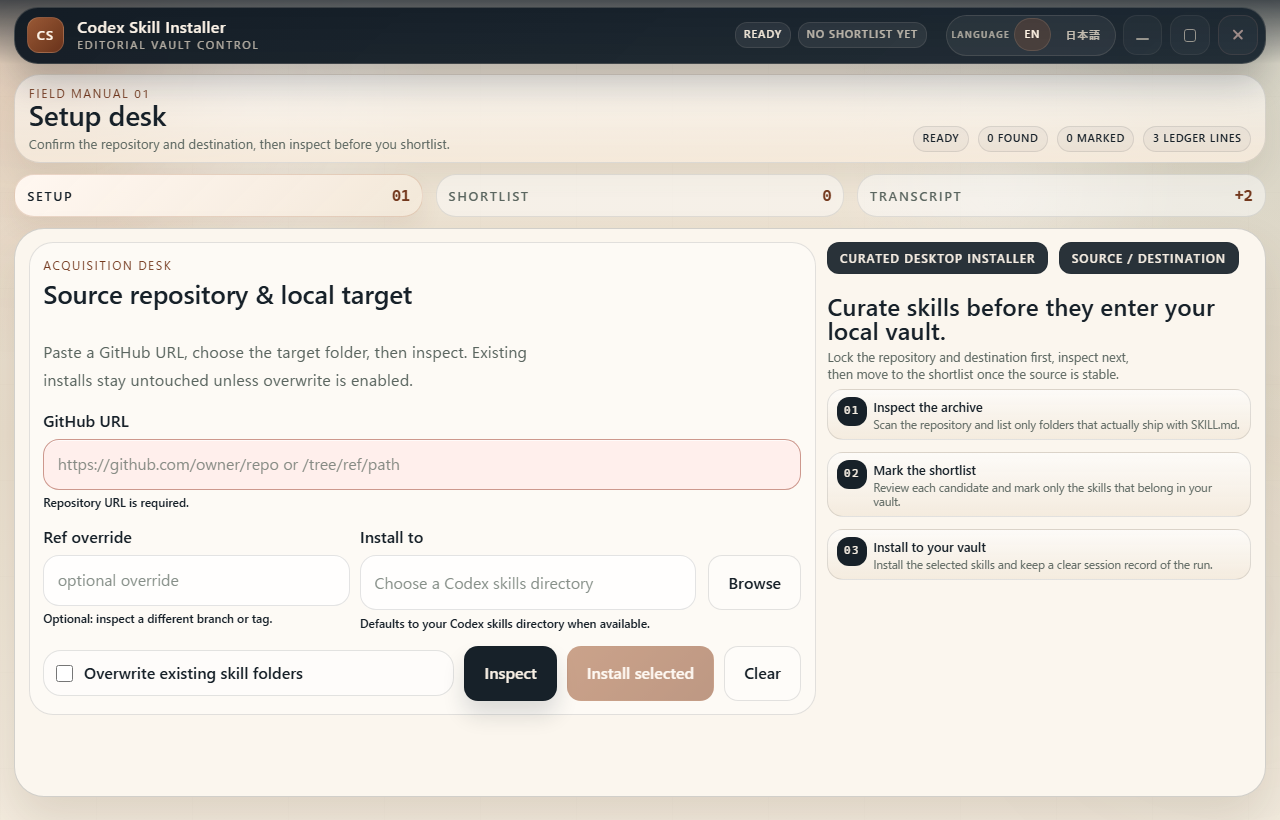
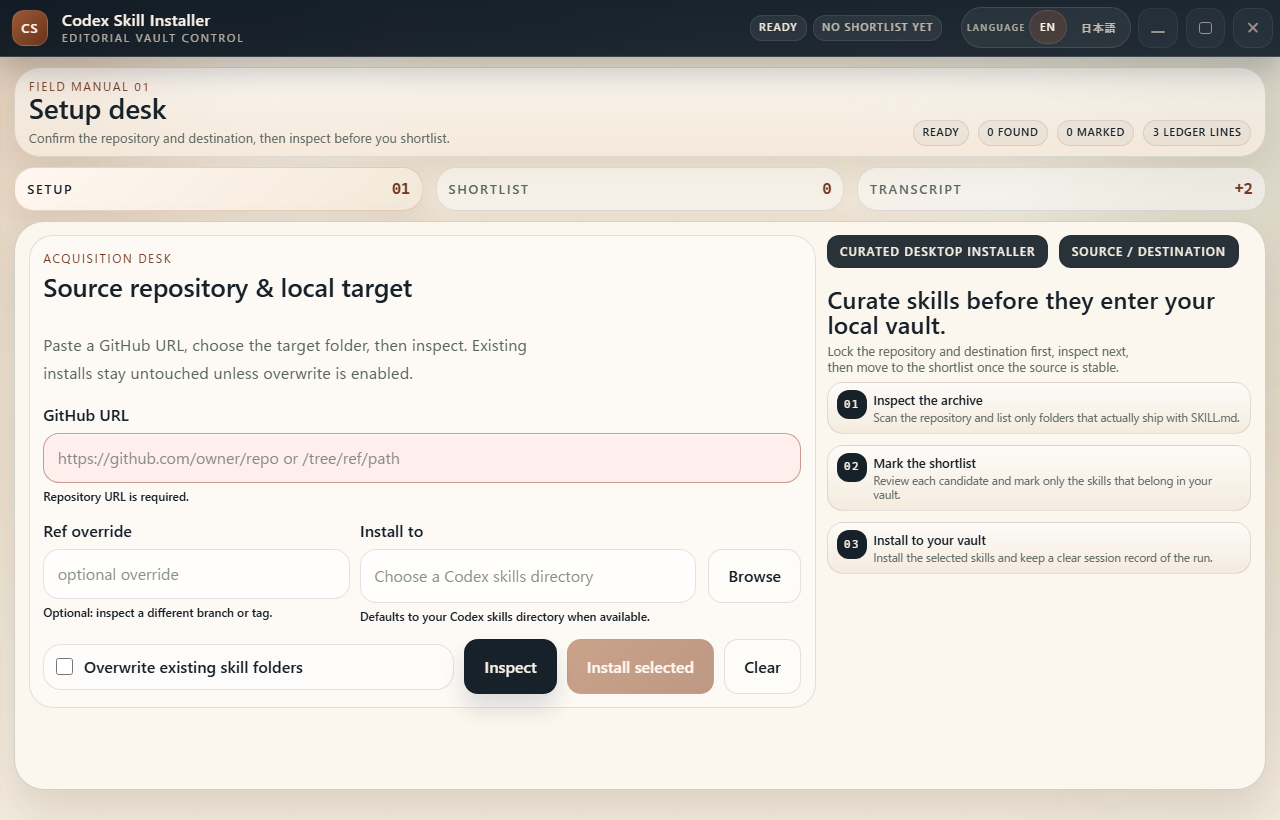
🪟 Flatten the custom title bar chrome
- remove the remaining rounded title bar edge so the window chrome sits flush with the frame
- keep the bilingual custom title bar styling intact while tightening the top-edge treatment
- refresh the English and Japanese setup screenshots after the chrome pass

diff --git a/src/styles.css b/src/styles.css
@@ -178,7 +178,7 @@ button {
   position: sticky;
   top: 0;
   z-index: 4;
-  padding: 0.56rem 0.82rem 0;
+  padding: 0;
   background: linear-gradient(180deg, rgba(26, 35, 44, 0.78) 0%, rgba(26, 35, 44, 0) 100%);
   backdrop-filter: blur(8px);
 }
@@ -188,15 +188,18 @@ button {
   grid-template-columns: minmax(0, 1fr) auto;
   align-items: center;
   gap: 0.85rem;
-  width: min(1340px, calc(100vw - 1.8rem));
+  width: 100%;
   min-height: 3.9rem;
-  margin: 0 auto;
+  margin: 0;
   padding: 0.4rem 0.5rem 0.4rem 0.76rem;
-  border-radius: 24px;
+  border-radius: 0;
   border: 1px solid rgba(233, 221, 205, 0.18);
+  border-top: 0;
+  border-left: 0;
+  border-right: 0;
   background:
     linear-gradient(135deg, rgba(18, 27, 36, 0.98) 0%, rgba(26, 38, 48, 0.96) 100%);
-  box-shadow: 0 18px 34px rgba(14, 18, 23, 0.24);
+  box-shadow: 0 14px 28px rgba(14, 18, 23, 0.22);
 }
 
 .titlebar-drag-region {
@@ -1612,7 +1615,7 @@ button {
 
 @media (max-height: 860px) {
   .custom-titlebar {
-    padding-top: 0.42rem;
+    padding-top: 0;
   }
 
   .custom-titlebar-inner {
@@ -1794,12 +1797,12 @@ button {
 
 @media (max-width: 720px) {
   .custom-titlebar {
-    padding: 0.55rem 0.5rem 0;
+    padding: 0;
   }
 
   .custom-titlebar-inner {
     grid-template-columns: 1fr;
-    width: calc(100vw - 1rem);
+    width: 100%;
     padding: 0.72rem;
   }
 
